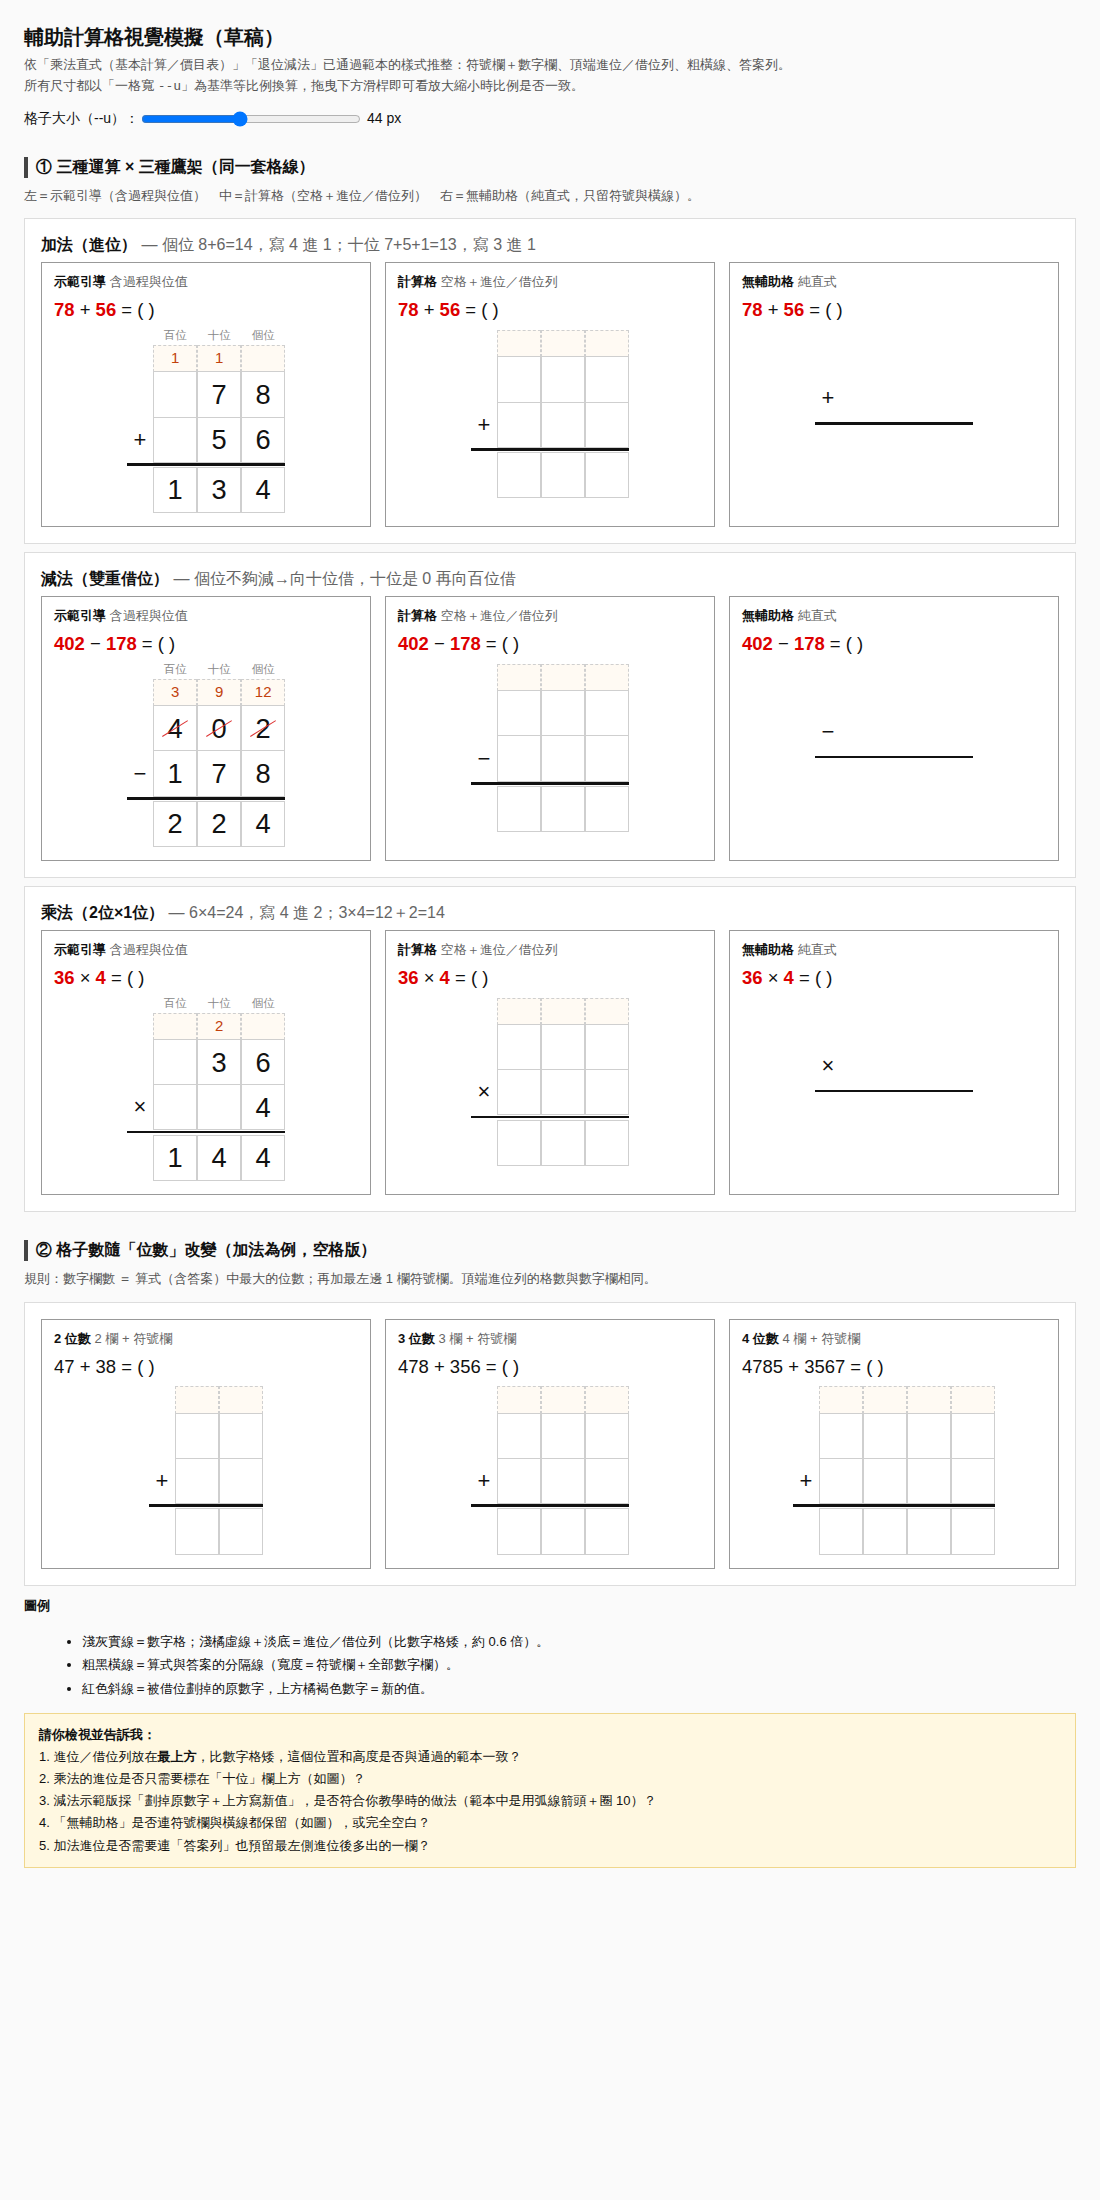
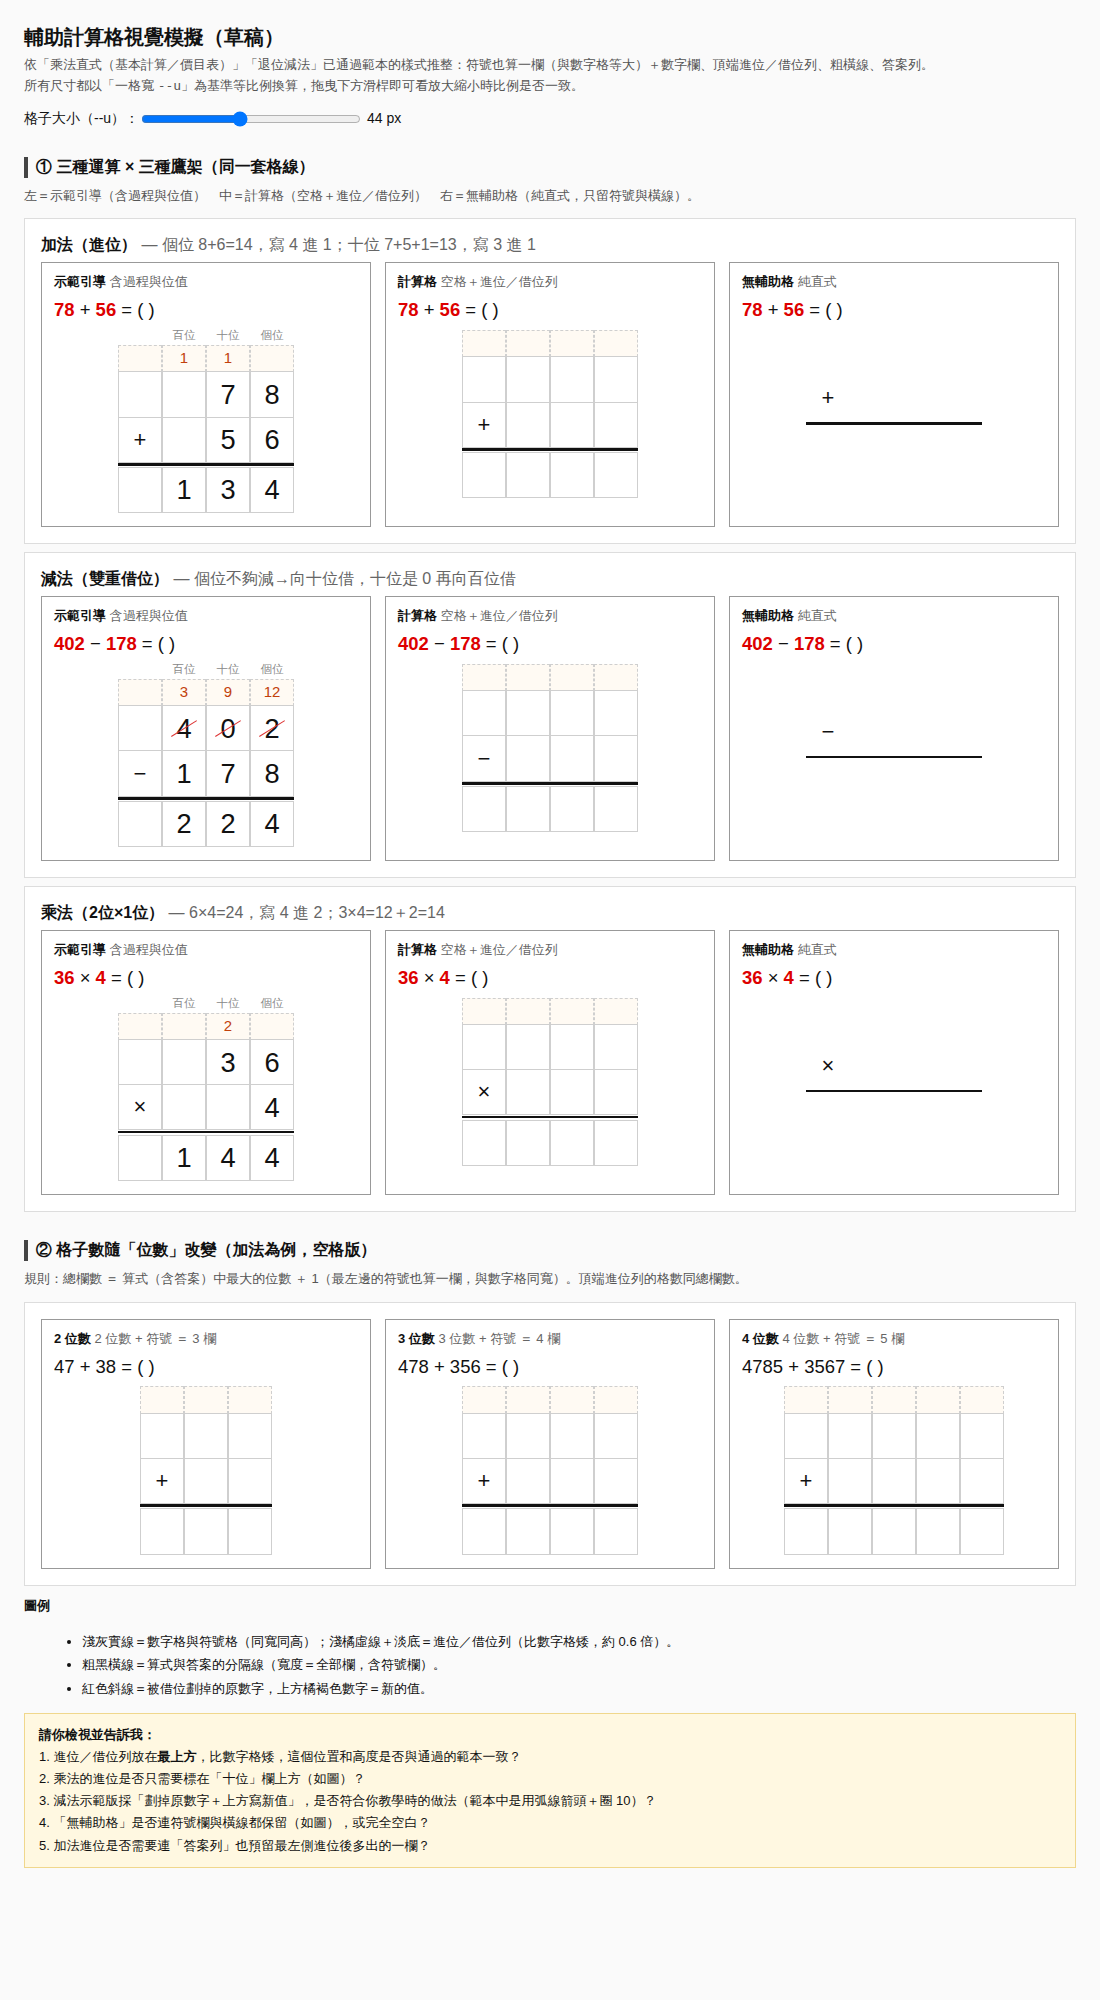
計算格模擬：符號視為一欄（與數字格等大）
Claude-Session: https://claude.ai/code/session_012BHGRHE4qZD94g5LRgTFdn

diff --git a/docs/calc-grid-mock.html b/docs/calc-grid-mock.html
@@ -33,10 +33,9 @@
   .c { width: var(--u); height: calc(var(--u) * 1.05); border: max(1px, calc(var(--u) * .018)) solid var(--line);
        margin: 0 calc(max(1px, calc(var(--u) * .018)) * -1) calc(max(1px, calc(var(--u) * .018)) * -1) 0;
        display: flex; align-items: center; justify-content: center; font-size: calc(var(--u) * .62); position: relative; }
-  .c.sign { width: calc(var(--u) * .6); border-color: transparent; font-size: calc(var(--u) * .5); }
+  .c.sign { font-size: calc(var(--u) * .5); }   /* 符號也是一欄：與數字格同寬同高、同樣有格線 */
   .c.up   { height: calc(var(--u) * .62); font-size: calc(var(--u) * .34); color: var(--carry); border-style: dashed; background: #fffaf3; }
-  .c.up.sign { background: none; }
-  .c.ans  { color: #111; }
+    .c.ans  { color: #111; }
   .c.hint { background: var(--shade); }
   .c.strike::after { content: ""; position: absolute; left: 14%; right: 14%; top: 50%; border-top: calc(var(--u) * .04) solid #d33; transform: rotate(-32deg); }
   .c.small-r { align-items: flex-end; justify-content: flex-end; font-size: calc(var(--u) * .3); color: var(--carry); padding: 0 3px 2px 0; }
@@ -58,7 +57,7 @@
 </head>
 <body>
 <h1>輔助計算格視覺模擬（草稿）</h1>
-<p class="note">依「乘法直式（基本計算／價目表）」「退位減法」已通過範本的樣式推整：符號欄＋數字欄、頂端進位／借位列、粗橫線、答案列。<br>
+<p class="note">依「乘法直式（基本計算／價目表）」「退位減法」已通過範本的樣式推整：符號也算一欄（與數字格等大）＋數字欄、頂端進位／借位列、粗橫線、答案列。<br>
 所有尺寸都以「一格寬 <code>--u</code>」為基準等比例換算，拖曳下方滑桿即可看放大縮小時比例是否一致。</p>
 
 <div class="ctl">格子大小（--u）：<input id="u" type="range" min="28" max="64" value="44"> <span id="uv">44</span> px</div>
@@ -68,14 +67,14 @@
 <div id="matrix"></div>
 
 <h2>② 格子數隨「位數」改變（加法為例，空格版）</h2>
-<p class="note">規則：數字欄數 ＝ 算式（含答案）中最大的位數；再加最左邊 1 欄符號欄。頂端進位列的格數與數字欄相同。</p>
+<p class="note">規則：總欄數 ＝ 算式（含答案）中最大的位數 ＋ 1（最左邊的符號也算一欄，與數字格同寬）。頂端進位列的格數同總欄數。</p>
 <div class="sheet"><div class="row3" id="digits"></div></div>
 
 <div class="legend">
   <b>圖例</b>
   <ul>
-    <li>淺灰實線＝數字格；淺橘虛線＋淡底＝進位／借位列（比數字格矮，約 0.6 倍）。</li>
-    <li>粗黑橫線＝算式與答案的分隔線（寬度＝符號欄＋全部數字欄）。</li>
+    <li>淺灰實線＝數字格與符號格（同寬同高）；淺橘虛線＋淡底＝進位／借位列（比數字格矮，約 0.6 倍）。</li>
+    <li>粗黑橫線＝算式與答案的分隔線（寬度＝全部欄，含符號欄）。</li>
     <li>紅色斜線＝被借位劃掉的原數字，上方橘褐色數字＝新的值。</li>
   </ul>
 </div>
@@ -101,7 +100,7 @@
 function grid(cfg, level) {
   const n = cfg.n, g = document.createElement('div');
   g.className = 'g' + (level === 'free' ? ' free' : '');
-  g.style.gridTemplateColumns = `calc(var(--u)*.6) repeat(${n}, var(--u))`;
+  g.style.gridTemplateColumns = `repeat(${n + 1}, var(--u))`;
   const cell = (cls, txt) => { const d = document.createElement('div'); d.className = 'c ' + cls; if (txt != null) d.textContent = txt; return d; };
   if (level === 'demo' && cfg.ph) {
     const names = ['個','十','百','千'];
@@ -168,7 +167,7 @@ const dg = document.getElementById('digits');
 [[2,'47 + 38'],[3,'478 + 356'],[4,'4785 + 3567']].forEach(([n, eq]) => {
   const rows = [ { digits: Array(n).fill('') }, { sign: '+', digits: Array(n).fill('') } ];
   const card = document.createElement('div'); card.className = 'card';
-  card.innerHTML = `<div class="cap">${n} 位數 <span>${n} 欄 + 符號欄</span></div><div class="eq">${eq} = ( )</div>`;
+  card.innerHTML = `<div class="cap">${n} 位數 <span>${n} 位數 + 符號 ＝ ${n+1} 欄</span></div><div class="eq">${eq} = ( )</div>`;
   card.appendChild(grid({ n, rows }, 'grid'));
   dg.appendChild(card);
 });
